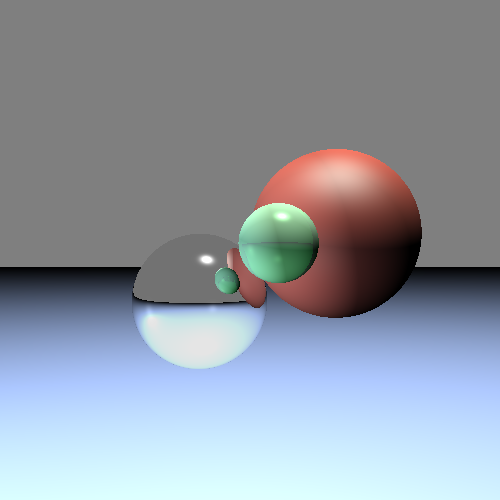
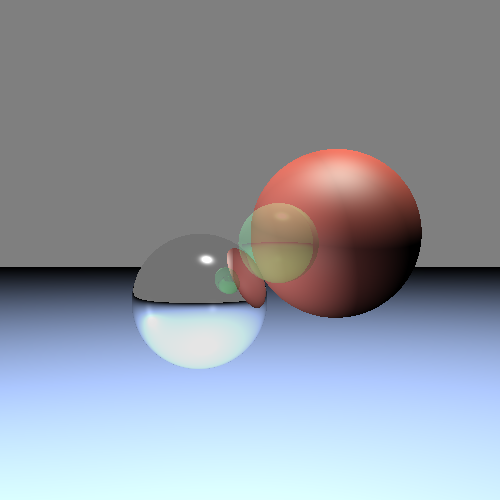
added transparency!

Changed region(s): [[0.48, 0.39, 0.66, 0.57], [0.42, 0.54, 0.48, 0.6]]

diff --git a/src/RayTracing/SceneGenerator.java b/src/RayTracing/SceneGenerator.java
@@ -82,14 +82,22 @@ public class SceneGenerator
 		}
 		
 		Intersection first = intersections.get(0);
+		Material material = getMaterialForSurface(first.getSurface());
 		
 		Color color = new Color(0d, 0d, 0d);
 		
 		for (Light lgt : _lights)
 		{
 			Color diffuse = getColorFromLight(first, lgt);
+			diffuse.multipy(1 - material.getTransperancy());
 			color.add(diffuse);
 		}
+		
+		ArrayList<Intersection> nextIntersections = new ArrayList<Intersection>(intersections);
+		nextIntersections.remove(0);
+		Color transparancyColor = new Color(getColor(nextIntersections, generation));
+		transparancyColor.multipy(material.getTransperancy());
+		color.add(transparancyColor);
 		
 		//reflection handling
 		if (generation < _settings.getRecursionLevel())
@@ -98,10 +106,9 @@ public class SceneGenerator
 			Vector3D V= first.getRay().getV();
 			Vector3D N = first.getNormal();
 			Vector3D reflectionAngle = V.sub(N.multByScalar(2*(V.dotProduct(N))));
-			
 			Ray reflectionRay = new Ray(first.getIntersectionPoint(), first.getIntersectionPoint(), reflectionAngle);
 			ArrayList<Intersection> reflectionIntersections = getIntersectionsSorted(reflectionRay);
-			Material material = getMaterialForSurface(first.getSurface());
+			
 			Color reflectionColor = getColor(reflectionIntersections, ++generation);
 			//it's better that this recursion level has its own copy of the object:
 			reflectionColor = new Color(reflectionColor);  			

diff --git a/src/RayTracing/Color.java b/src/RayTracing/Color.java
@@ -45,6 +45,13 @@ public class Color
 		_green = normalize(_green * other._green);		
 	}
 	
+	public void multipy(double coefficient)
+	{
+		_red = normalize(_red * coefficient);
+		_blue = normalize(_blue * coefficient);
+		_green = normalize(_green * coefficient);		
+	}
+	
 	private double normalize(double value)
 	{
 		return Math.max(0d, Math.min(1.0, value));
